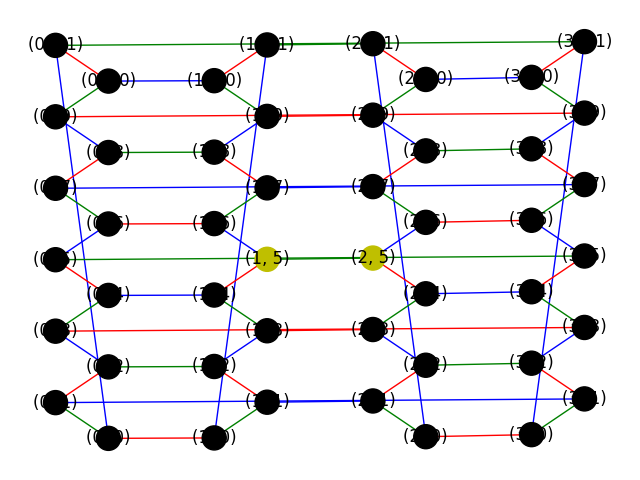
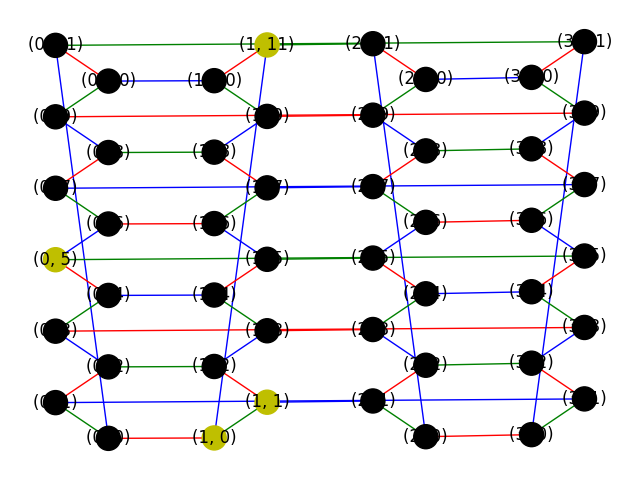
Made my program not panic and abort as soon as theres an error

diff --git a/conceptTinkering/colorcode/hexcolor.py b/conceptTinkering/colorcode/hexcolor.py
@@ -4,7 +4,7 @@ from pymatching import Matching
 from numpy import zeros, uint8
 from random import random
 from random import sample
-from typing import List, FrozenSet
+from typing import List, FrozenSet, Set
 from os import makedirs
 from os.path import exists
 from time import time
@@ -325,7 +325,7 @@ def flag_c_graph_specific(graph: nx.Graph, nodes: List[any]) -> bool:
         graph.nodes[node]['color'] = 'y'
     return True
 
-def lift(hyper_edges, faces):
+def lift(hyper_edges, faces) -> Set[FrozenSet]:
     cyclics = set()
     for hyper_edge in hyper_edges:
         bounded_nodes = faces[hyper_edge.pop()]
@@ -333,6 +333,9 @@ def lift(hyper_edges, faces):
             bounded_nodes = bounded_nodes & faces[face]
         bounded_nodes = frozenset(bounded_nodes)
         cyclics.add(bounded_nodes)
+    # clear up empty frozenset
+    if frozenset() in cyclics:
+        cyclics.remove(frozenset())
     return cyclics
 
 def main() -> bool:
@@ -341,9 +344,9 @@ def main() -> bool:
         makedirs("img/hexcolor")
     #### initialize color code graph with errors
     origG = make_a_base_graph()
-    # flag_color_graph(origG, 0.05)
+    flag_color_graph(origG, 0.05)
     ## This is for manually setting faults
-    flag_c_graph_specific(origG, [(1,5),(2,5)])
+    # flag_c_graph_specific(origG, [(1,5),(2,5)])
     #### dualizing and subtiling
     dual, faces = dual_of_three_colored_graph(origG)
     subr, subg, subb = subtile(dual, 'r'), subtile(dual, 'g'), subtile(dual, 'b')
@@ -354,15 +357,7 @@ def main() -> bool:
     pred_r, pred_g, pred_b = decode_subtile(subr), decode_subtile(subg), decode_subtile(subb)
     hyper_edges = find_hyper_edges(dual, pred_r, pred_g, pred_b)
     ## get back to og nodes from dual nodes/ faces
-    cyclics = lift(hyper_edges, faces)
-    print(cyclics)
-    if cyclics:
-        cyclic_list = []
-        for thing in cyclics:
-            cyclic_list.append(thing)
-
-        for i in range(len(cyclic_list)):
-            print(f"The {i}th error node on the graph is {next(iter(cyclic_list[i]))}")
+    cyclic_list = list(lift(hyper_edges, faces))
     end = time()
     #### visualizing part
     print(f"This decoding and lifting took {end-start} seconds.")
@@ -374,8 +369,11 @@ def main() -> bool:
     print("The green prediction is: ", pred_g)
     print("The blue prediction is: ", pred_b)
     print("Hyperedges are: ", hyper_edges)
-    print("cyclics are: ", cyclics)
-
+    print("cyclics are: ", cyclic_list)
+    if cyclic_list:
+        for i in range(len(cyclic_list)):
+            print(f"The {i}th error node on the graph is {next(iter(cyclic_list[i]))}")
+    
     return True
 
 if __name__ == "__main__":
